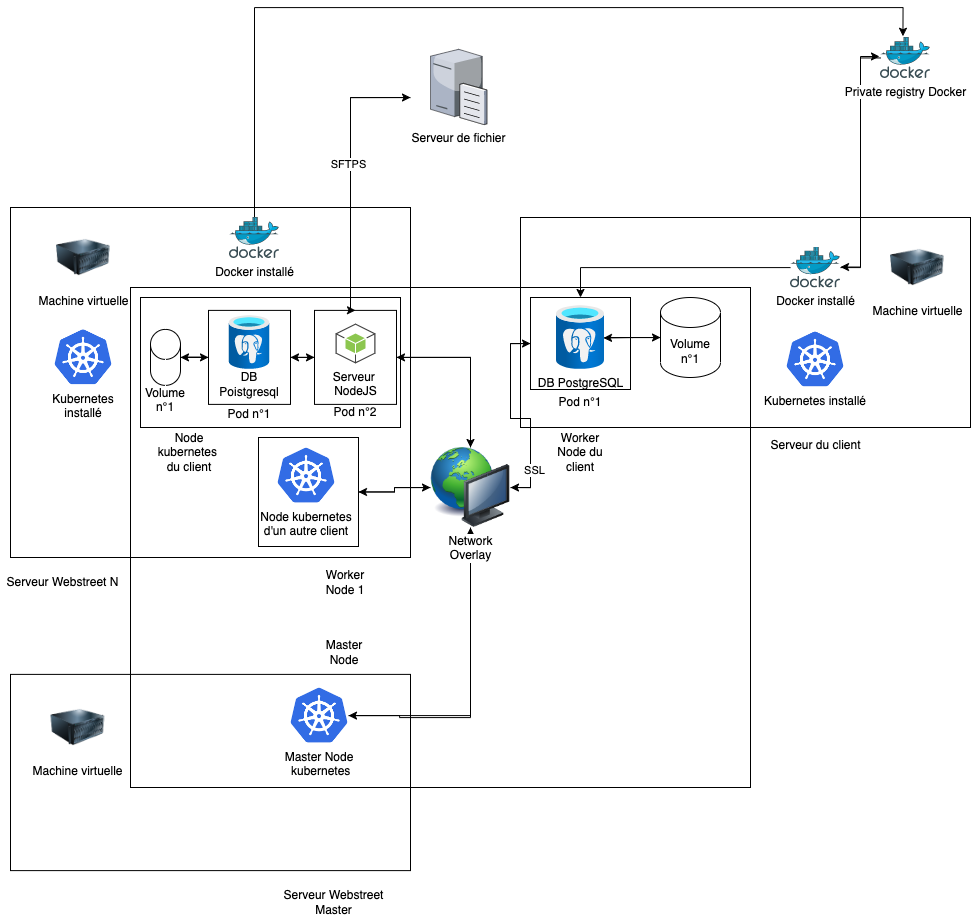
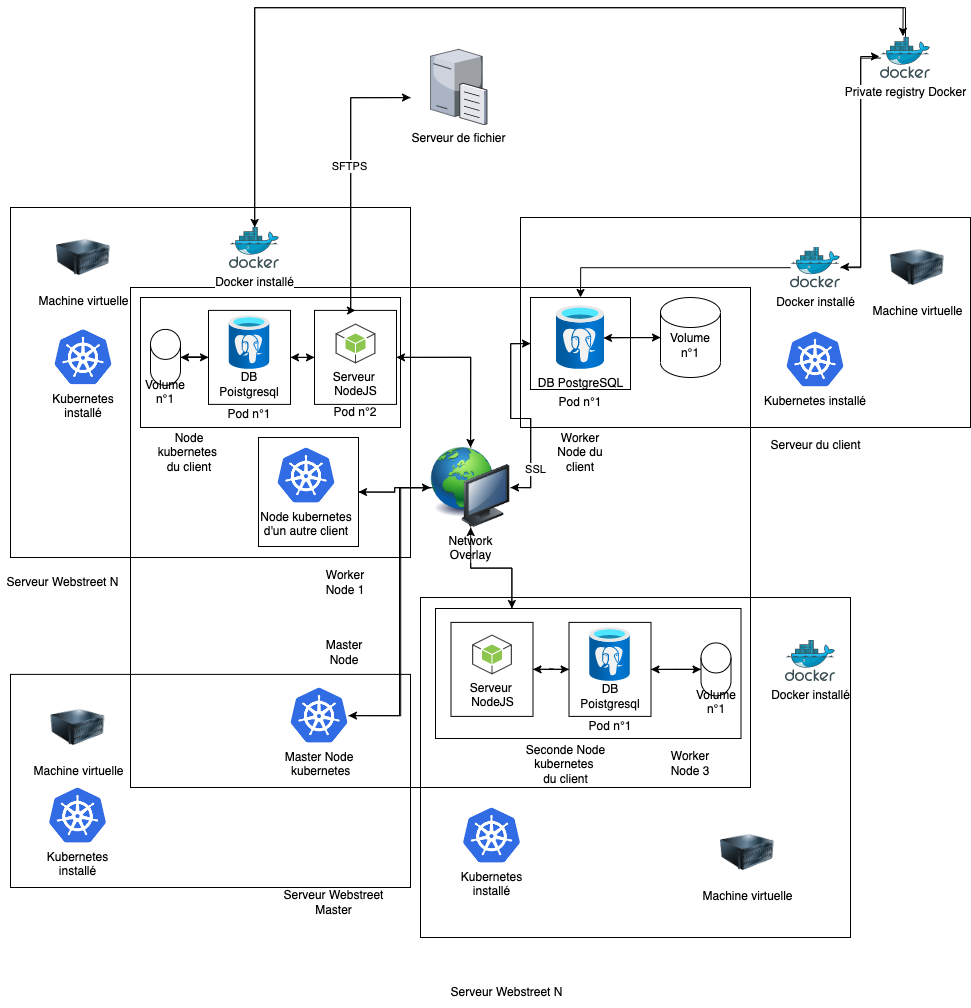
ajout justifs solution technique

diff --git a/Artefacts/Building Blocks/Architecture Building Blocks/README.md b/Artefacts/Building Blocks/Architecture Building Blocks/README.md
@@ -4,21 +4,17 @@
 
 **Templates:** a set of Site Atoms that work together for a specific purpose. See example [here](../../../Images/32_Building_Block_Template.png).
 
-**Solution A:**
+**Solution privilégiant l'apect technique:**
 
-![Shéma récapitulatif de la solution A](../../../Images/solutionAhighlevelarchitecture.drawio.png "Shéma récapitulatif de la solution A")
+![Shéma récapitulatif de la solution privilégiant l'apect technique](../../../Images/diagrammeSolutionTechniqueWebstreet.png "Shéma récapitulatif de la solution privilégiant l'apect technique")
+Cette solution visant à fournir une répone technique à la probèmatique consiste à mettre en comun des ressources d'infrastructure réseau entre les différents sites des clients par le moyen d'un cluster Kubernetes:
+Nous mettrons à disposition des serveurs de très grande capacité qui seront partagées entre les clients. Chaque client se vera attribuer un minimum de 2 nodes qui seront dans des serveurs situés dans des availaibility zones différentes
+Cette solution présente de nombreux avantages:
+- Une fois la solution mise en place, la mise en place d'une nouvelle application d'un client est très rapide, il suffit de faire entrer le serveur du client dans le cluster kubernetes et de créer les pods coté Webstreet en ligne de commande
+- L'utilisation de grands serveurs coté webstreet permet de grandement faciliter le scale des applications, une applicatiopn peut absorber un pic de connexion plus élevé si les autres ont peu de connexion
+- Kubernetes est un système d'orchestration des nodes qui sait gérer les ressources de façon inteligente et  optimisée
 
-La solution A consiste à séparer l'application pour le client en deux sous applications:
-- Une application devra stocker les informations dont le client a émis le souhait de gérer l'infrastructure
-- Une autre application devra stocker le reste des informations et s'occuper de la communication avec le navigateur des utilisateurs
-
-L'application gérée par webstreet sera hébergée dans des serveurs à haute disponibilité et pouvant gérer de forts pics de connexion. De cette manière le client n'aurra pas à s'occuper de scale la majeure partie de l'infrasctructure et pourra avoir accès à des serveurs moins chers grâce à la mise en comun de nos ressources.
-
-Afin de pouvoir faire coexister ces de ux applications, un système d'API devra être mis en place. Chaque site atoms présent sur l'application hébergé par le client devra pouvoir permettre de réaliseres actions de CRUD sauf cas spécifique de sécurité.
-
-Dans le cas où le client souhaite conserver les informations d'authentification de ses utilisateurs,, l'API devra permettre de vérifier à partir des données rentrées dans l'IHM vérifier que les identifiants sont corrects.
-
-Tableau récapitulatif des réponse de la solution A aux nouvelles exigences:
+Les images de l'application seront stockées de façon sécurisée sur un registry Docker privé créé pour l'ocasion.
 
 | Exigence                                                                                                                                                  | Solution apportée                                                                                                                                              | Points forts de la solution | Lacunes de la solution |
 |-----------------------------------------------------------------------------------------------------------------------------------------------------------|----------------------------------------------------------------------------------------------------------------------------------------------------------------|-----------------------------|------------------------|
@@ -30,7 +26,7 @@ Tableau récapitulatif des réponse de la solution A aux nouvelles exigences:
 | Toute mise à jour devra être effectuée sur nos serveurs sur demande<br>de l'acheteur                                                                      | Nous mettrons en place des outils de devops sur nos outils<br>de communication qui permettront aux clients de créer <br>automatiquement de nouvelles pipelines |                             |                        |
 | Les mises à jour seront centralisées et envoyées à tous nos clients <br>en même temps.                                                                    |                                                                                                                                                                |                             |                        |
 
-**Solution B:**
+**Solution privilégiant l'aspect commercial:**
 
 
 ![Shéma récapitulatif de la solution B](../../../Images/solutionBwebstreet.drawio.png "Shéma récapitulatif de la solution B")
